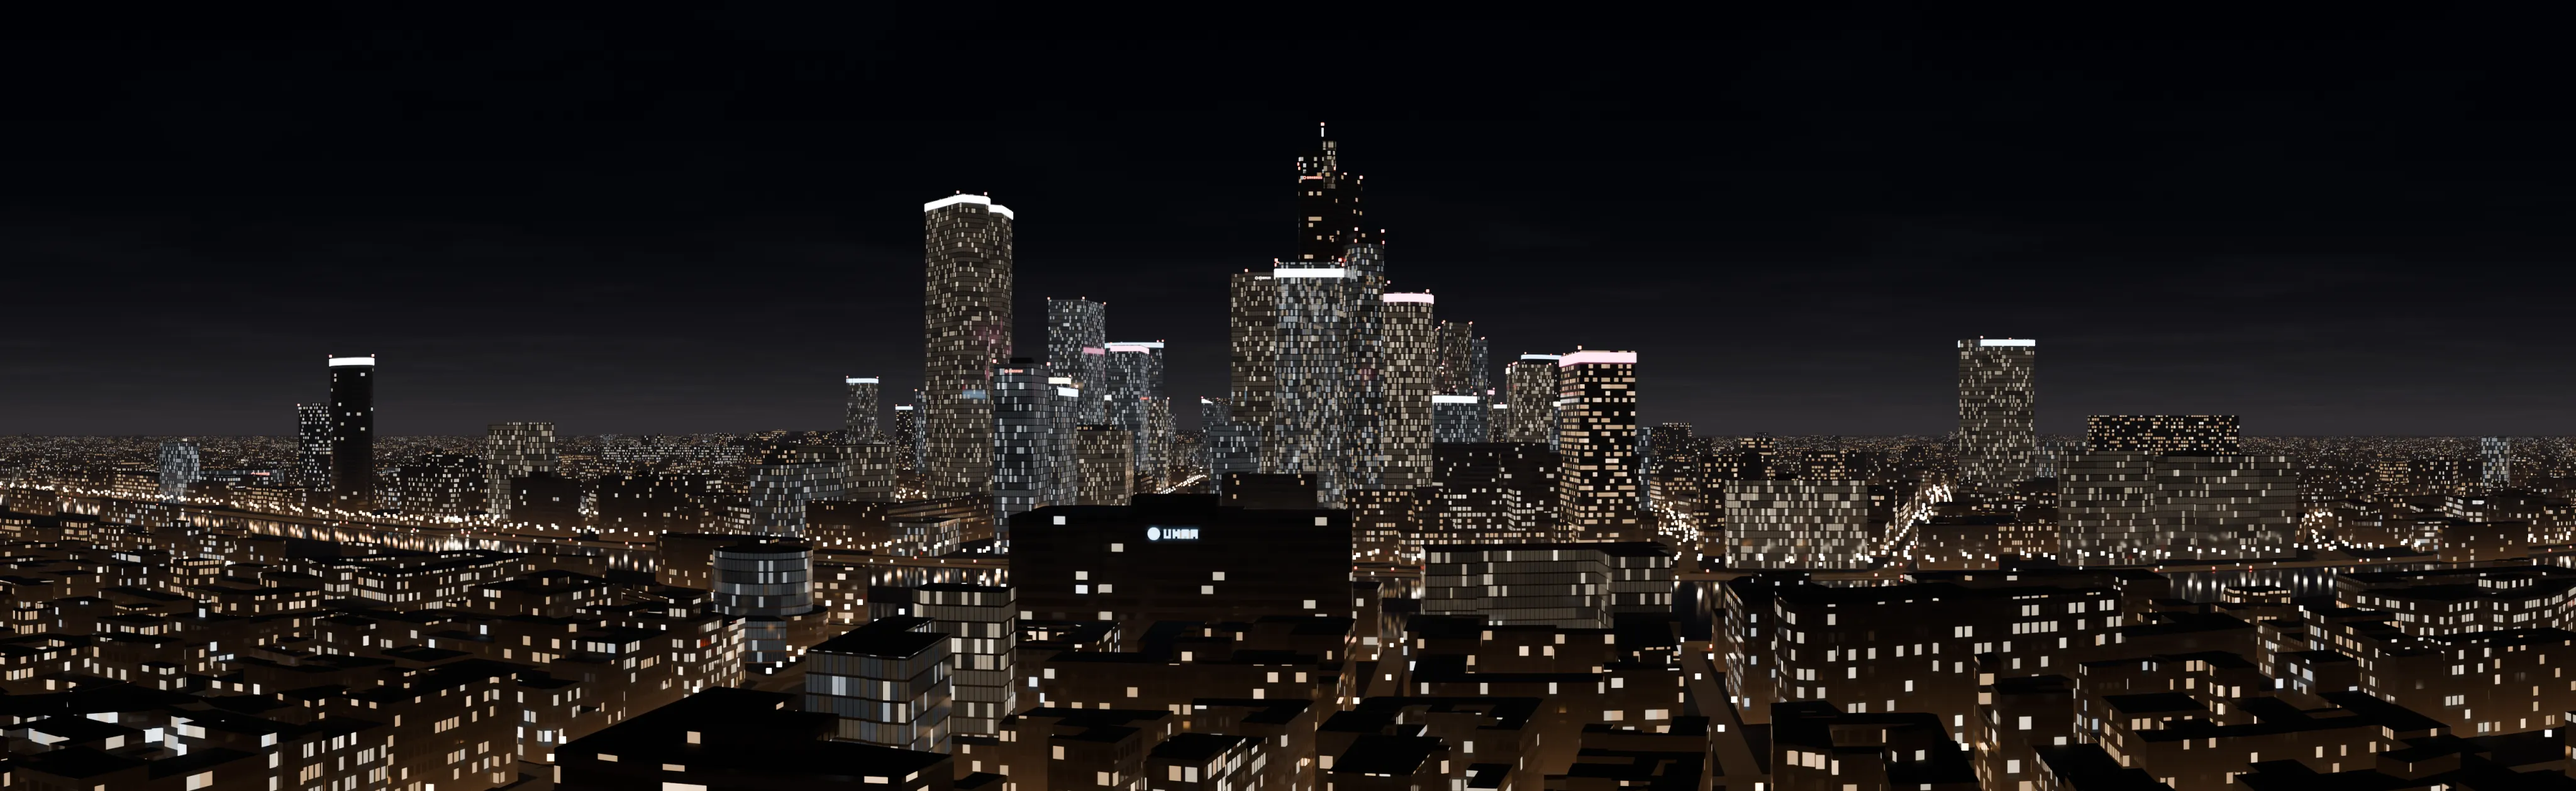
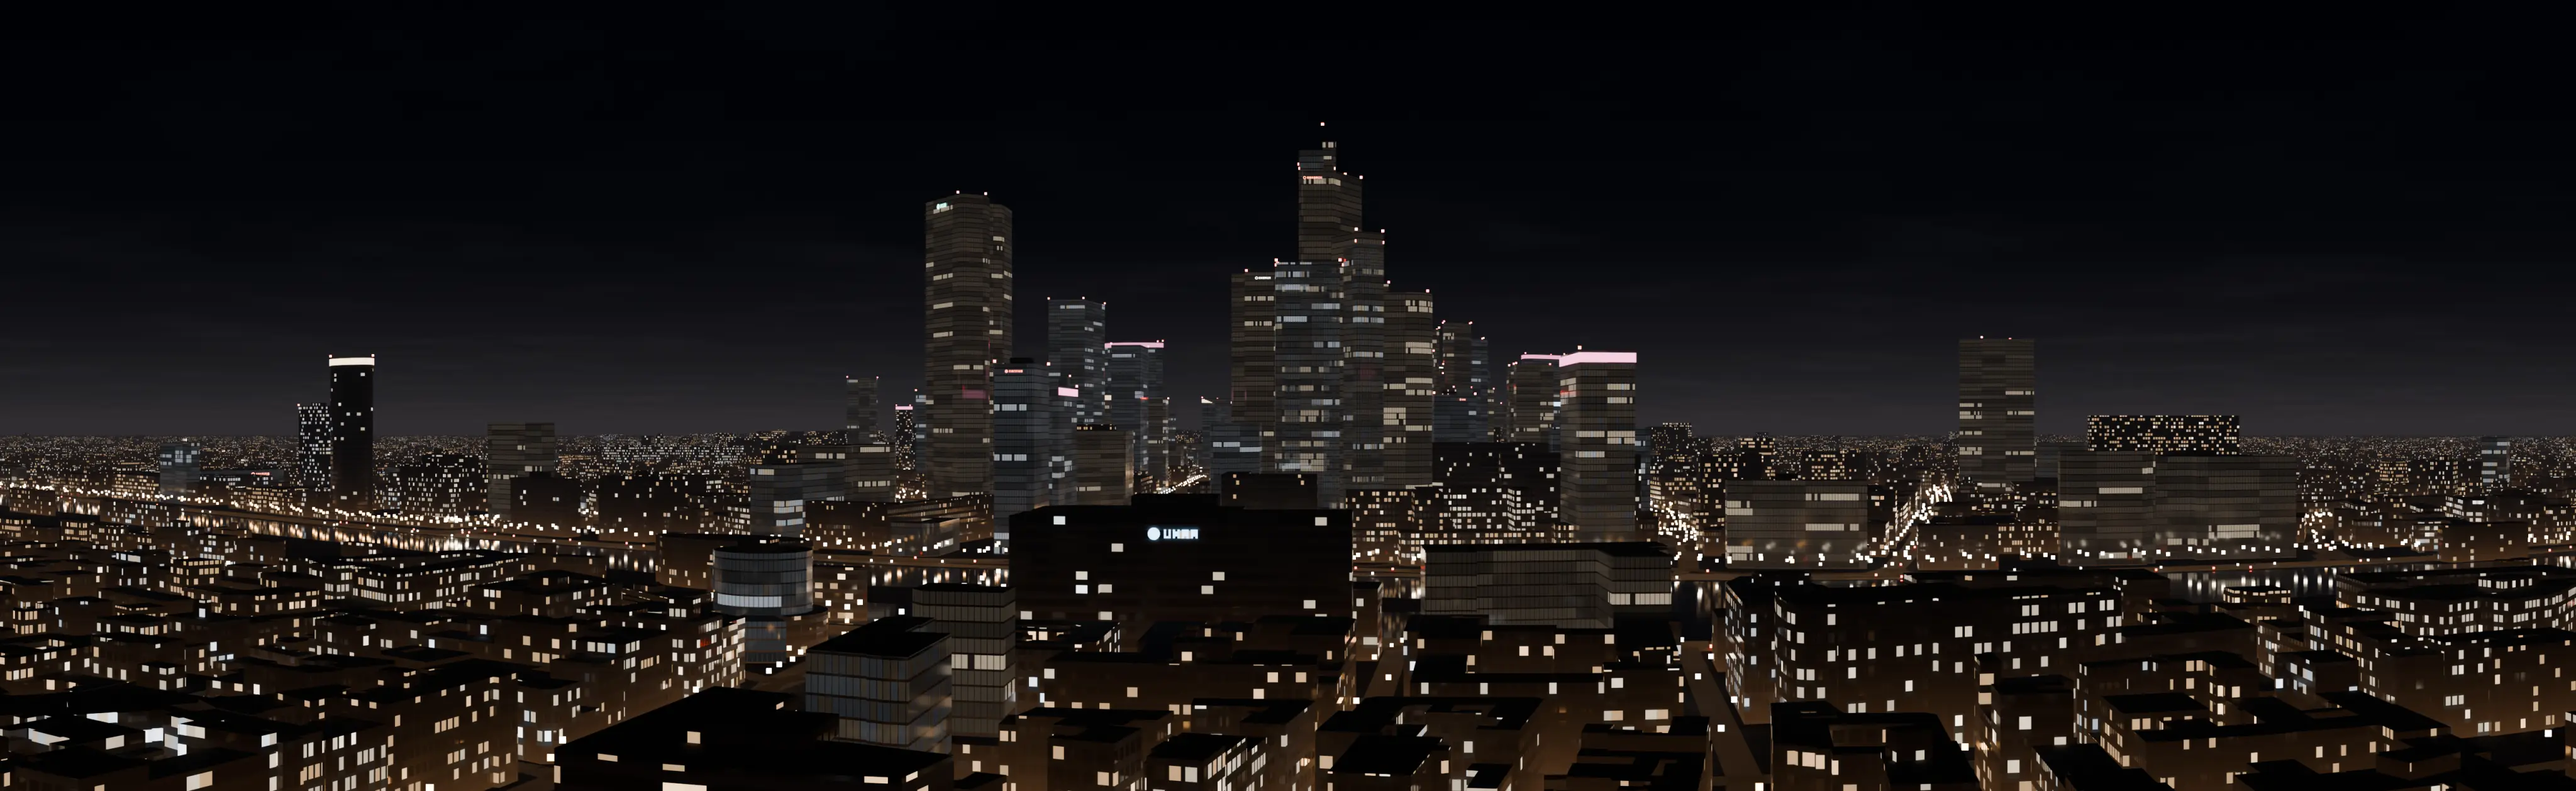
Ville de nuit plus calme : tours surtout sombres, plateaux allumés d'un bloc
Dans la scène, les tours derrière le dev faisaient un champ de neige blanc.
Vers 22 h, La Défense montre surtout des façades sombres :
- murs-rideaux allumés par plateaux entiers (ménage, une équipe tardive),
  plus en fenêtres éparses ; environ 30 % de la surface allumée d'avant sur
  les tours, et toutes les tours de plus de 90 m (hors logements) passent en
  mur-rideau pour suivre cette logique ;
- veilleuse du vitrage un peu baissée : les tours sombres restent des
  volumes de verre lisibles sur le ciel ;
- couronnes rares (12 % des grandes tours au lieu de 40 %), d'une seule
  teinte douce, jamais blanche, à 35 % de l'intensité ;
- logements inchangés, chauds et plus denses que les bureaux.
WebP qualité 74 : city.webp passe de 307 à 219 Ko. CITY_VIEW, caméra et
reste du rendu inchangés. Rendu 5120 px, 96 échantillons, 26 min.

Claude-Session: https://claude.ai/code/session_016JZfSzinkt1cetrJs7jYM6

diff --git a/tools/bake/city.py b/tools/bake/city.py
@@ -157,12 +157,13 @@ def facade_material():
     wn2.noise_dimensions = "3D"
     nt.links.new(comb2.outputs[0], wn2.inputs["Vector"])
     occ = math_node(nt, "ADD", 0.04, math_node(nt, "MULTIPLY", math_node(nt, "POWER", math_node(nt, "FRACT", math_node(nt, "MULTIPLY", bld, 13.7)), 1.6), 0.4))
-    # les tours de bureaux restent bien plus allumées la nuit (ménage, veilleuses,
-    # étages entiers) : c'est ce qui dessine leur silhouette sur le ciel
-    occ_cw = math_node(nt, "ADD", 0.06, math_node(nt, "MULTIPLY", math_node(nt, "FRACT", math_node(nt, "MULTIPLY", bld, 13.7)), 0.22))
-    occ = math_node(nt, "ADD", occ, math_node(nt, "MULTIPLY", cw, math_node(nt, "SUBTRACT", occ_cw, occ)))
     chance = math_node(nt, "MULTIPLY", wn.outputs["Value"], math_node(nt, "ADD", 0.45, wn2.outputs["Value"]))
     lit = math_node(nt, "LESS_THAN", chance, occ)
+    # tours de bureaux vers 22 h : façades surtout sombres, quelques plateaux
+    # allumés d'un bloc (ménage, une équipe tardive), pas des fenêtres éparses
+    occ_cw = math_node(nt, "ADD", 0.04, math_node(nt, "MULTIPLY", math_node(nt, "FRACT", math_node(nt, "MULTIPLY", bld, 13.7)), 0.12))
+    lit_cw = math_node(nt, "MULTIPLY", math_node(nt, "LESS_THAN", wn2.outputs["Value"], occ_cw), math_node(nt, "LESS_THAN", wn.outputs["Value"], 0.85))
+    lit = math_node(nt, "ADD", lit, math_node(nt, "MULTIPLY", cw, math_node(nt, "SUBTRACT", lit_cw, lit)))
     # fenêtre seule, bandeau continu (style > 0.25), ou mur-rideau : vitrage
     # du sol au plafond, seulement coupé par les meneaux et les nez de dalle
     mx = math_node(nt, "MULTIPLY", math_node(nt, "GREATER_THAN", fx, 0.14), math_node(nt, "LESS_THAN", fx, 0.86))
@@ -221,7 +222,7 @@ def facade_material():
     em.inputs["B"].default_value = (1.0, 0.5, 0.22, 1)
     nt.links.new(em.outputs["Result"], bsdf.inputs["Emission Color"])
     up = math_node(nt, "MULTIPLY", math_node(nt, "MULTIPLY", up, math_node(nt, "SUBTRACT", 1.0, math_node(nt, "MAXIMUM", math_node(nt, "MULTIPLY", lit, glass), dim))), 0.12)
-    glow = math_node(nt, "MULTIPLY", dim, math_node(nt, "ADD", 0.02, math_node(nt, "MULTIPLY", wn2.outputs["Value"], 0.08)))
+    glow = math_node(nt, "MULTIPLY", dim, math_node(nt, "ADD", 0.02, math_node(nt, "MULTIPLY", wn2.outputs["Value"], 0.06)))
     nt.links.new(math_node(nt, "ADD", math_node(nt, "ADD", strength, up), glow), bsdf.inputs["Emission Strength"])
     fogged(nt, out, bsdf.outputs[0])
     return mat
@@ -475,6 +476,8 @@ def massing(tags, r, area):
         style = 1.0
     elif kind in HOMES or kind in HOUSES:
         style = 0.5 if (h > 40 and x < 0.4) or x < 0.08 else 0.0
+    elif h >= 90:
+        style = 1.0  # les grandes tours de bureaux : murs-rideaux, éclairées en plateaux
     elif h >= 60:
         style = 1.0 if x < 0.75 else 0.5 if x < 0.95 else 0.0
     elif officeish:
@@ -627,7 +630,7 @@ def build_city():
     lights = emissive_material("lamps", [(0.0, (1.0, 0.5, 0.18)), (0.5, (1.0, 0.86, 0.66))], 26.0)
     cars = emissive_material("cars", [(0.0, (1.0, 0.05, 0.02)), (0.5, (1.0, 0.9, 0.75))], 40.0)
     beacon_mat = emissive_material("beacons", [(0.0, (1.0, 0.04, 0.02)), (0.5, (1.0, 1.0, 1.0))], 60.0, k=0.8)
-    crown_mat = emissive_material("crowns", [(0.0, (0.85, 0.92, 1.0)), (0.4, (1.0, 0.75, 0.45)), (0.8, (0.35, 0.65, 1.0)), (0.95, (1.0, 0.25, 0.55))], 14.0, k=0.9)
+    crown_mat = emissive_material("crowns", [(0.0, (0.85, 0.92, 1.0)), (0.4, (1.0, 0.75, 0.45)), (0.8, (0.35, 0.65, 1.0)), (0.95, (1.0, 0.25, 0.55))], 5.0, k=0.9)
     m = Mesh("towers", facade, ("bld", "roof", "style"))
     beacons = Mesh("beacons", beacon_mat, ("c", "s"))
     crowns = Mesh("crowns", crown_mat, ("c", "s"))
@@ -665,8 +668,8 @@ def build_city():
             tall += 1
             for c in corners(ring, 2 if h < 160 else 4):  # feux d'obstacle rouges aux angles du toit
                 billboard(beacons, c[0], c[1], h + 1.5, 1.6, c=0.0, s=r.uniform(0.6, 1.0))
-            if r.random() < 0.4:  # couronne éclairée
-                col, st = r.choice((0.0, 0.0, 0.5, 0.9, 0.97)), r.uniform(0.5, 1.0)
+            if r.random() < 0.12:  # rares couronnes éclairées, d'une seule teinte douce
+                col, st = r.choice((0.5, 0.5, 0.9, 0.97)), r.uniform(0.5, 1.0)
                 big = [(cx + (x - cx) * 1.01 + 0.4 * (x > cx) - 0.4 * (x < cx), cy + (y - cy) * 1.01 + 0.4 * (y > cy) - 0.4 * (y < cy)) for x, y in ring]
                 for i in range(len(big)):
                     p, q = big[i], big[(i + 1) % len(big)]
@@ -744,6 +747,6 @@ w = min(4096, args.width)
 img.scale(w, round(H * w / args.width))
 img.file_format = "WEBP"
 dst = os.path.join(OUT, "city.webp")
-img.save(filepath=dst, quality=80)
+img.save(filepath=dst, quality=74)  # autour de 200 Ko
 os.remove(tmp)
 print("[city] écrit", dst, img.size[:])

diff --git a/SPEC.md b/SPEC.md
@@ -307,7 +307,7 @@ Walkout calqué sur FC 27, **en vraie 3D** (Three.js, WebGL), transposé dans un
    - le **langage principal** (le drapeau ; « Polyglotte » et des chevrons de code sans langage reconnu) ;
    - le **championnat** (Ligue GitHub, Ligue CV, ou GitHub × CV) ;
    - une attente « · · · », puis le **club** (écusson et employeur, « Agent libre » sinon).
-4. **L'arrivée** : l'afficheur montre la note et le statut final. Les portes s'ouvrent. Derrière, un open space de nuit réaliste, éclairé comme un vrai : plafond blanc cassé, suspensions linéaires qui éclairent vers le bas et vers le plafond, moquette en dalles grises mates, îlots de bureaux en chêne clair sur piètement noir avec cloisons acoustiques en feutre, écrans sur pied, claviers, papiers, vrais fauteuils de travail en cuir noir, la ville derrière les baies : une vraie ville, La Défense vue de Neuilly-sur-Seine, d'un 20e étage au bord de l'axe historique, ses tours juste derrière le poste du dev (Tour First à 0,9 km, The Link, Majunga, Hekla, l'Arche à 2,4 km) ; bâtiments, rues et eau d'OpenStreetMap, fenêtres allumées au hasard, murs-rideaux vitrés sur les tours de bureaux, fenêtres en bandeau ou percées ailleurs, quelques enseignes génériques (aucune vraie marque), feux d'obstacle et couronnes éclairées, réverbères, phares quand la circulation vient vers l'œil et feux arrière quand elle s'éloigne, brume et halo de la ville à l'horizon. Les baies reflètent faiblement le bureau éclairé, plus fort en incidence rasante. Les suspensions s'allument progressivement, rangée par rangée, et leur lumière sur le décor suit. De petits repères à la couleur du tier balisent l'allée. Des lattes de bois et deux plantes en pot, de tailles et de places différentes, encadrent le poste principal.
+4. **L'arrivée** : l'afficheur montre la note et le statut final. Les portes s'ouvrent. Derrière, un open space de nuit réaliste, éclairé comme un vrai : plafond blanc cassé, suspensions linéaires qui éclairent vers le bas et vers le plafond, moquette en dalles grises mates, îlots de bureaux en chêne clair sur piètement noir avec cloisons acoustiques en feutre, écrans sur pied, claviers, papiers, vrais fauteuils de travail en cuir noir, la ville derrière les baies : une vraie ville, La Défense vue de Neuilly-sur-Seine, d'un 20e étage au bord de l'axe historique, ses tours juste derrière le poste du dev (Tour First à 0,9 km, The Link, Majunga, Hekla, l'Arche à 2,4 km) ; bâtiments, rues et eau d'OpenStreetMap, logements aux fenêtres chaudes allumées au hasard ; tours de bureaux en murs-rideaux vitrés, surtout sombres comme vers 22 h, avec quelques plateaux allumés d'un bloc (ménage, une équipe tardive) et une faible veilleuse qui garde leur volume de verre lisible sur le ciel ; fenêtres en bandeau ou percées ailleurs, quelques enseignes génériques (aucune vraie marque), feux d'obstacle, de rares couronnes d'une seule teinte douce, réverbères, phares quand la circulation vient vers l'œil et feux arrière quand elle s'éloigne, brume et halo de la ville à l'horizon. Les baies reflètent faiblement le bureau éclairé, plus fort en incidence rasante. Les suspensions s'allument progressivement, rangée par rangée, et leur lumière sur le décor suit. De petits repères à la couleur du tier balisent l'allée. Des lattes de bois et deux plantes en pot, de tailles et de places différentes, encadrent le poste principal.
 5. **Le dev** est un vrai humain scanné (peau, cheveux, t-shirt et jean photographiés), assis de dos à son poste, au bout de l'allée, sur un tapis. Son poste : bureau en noyer texturé aux bords adoucis, le même fauteuil de travail que l'open space, de vrais objets modélisés (lampe de bureau noire, tasse « Get shit done », clavier mécanique rétroéclairé à la couleur du tier), trois écrans 23 pouces identiques, celui du milieu en 32 pouces, dont les dalles affichent en direct son programme de recrutement qui s'écrit dans son langage principal, un terminal où les tests passent et son graphe de contributions. Une lumière chaude sur le mobilier contraste avec la lumière bleutée des écrans. Il tape, puis son fauteuil fait un demi-tour et il se tourne vers la caméra. Ses mouvements sont calculés par code, sans clip d'animation (`web/src/three/player.ts`) :
    - les mains sont posées sur le clavier par cinématique inverse (coudes en dehors, poignets un peu au-dessus des touches) ; il frappe par rafales de mots, chaque touche enfoncée par un doigt qui plonge, la main qui glisse d'une touche à l'autre, et des pauses où il relit ;
    - il respire (buste et épaules), se balance à peine, cligne des yeux ; sa tête passe d'un écran à l'autre par petites saccades et ses yeux balaient la ligne qu'il lit ;
